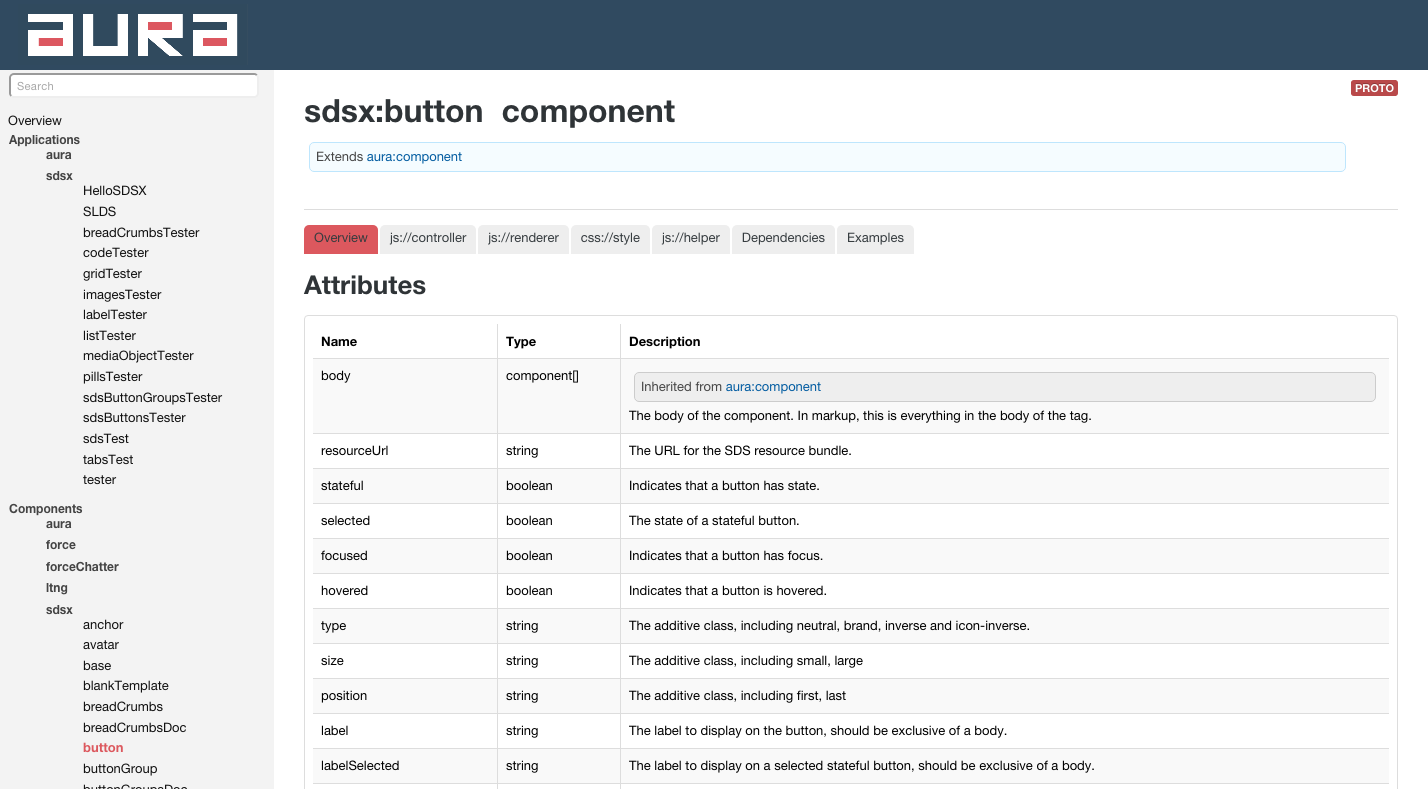
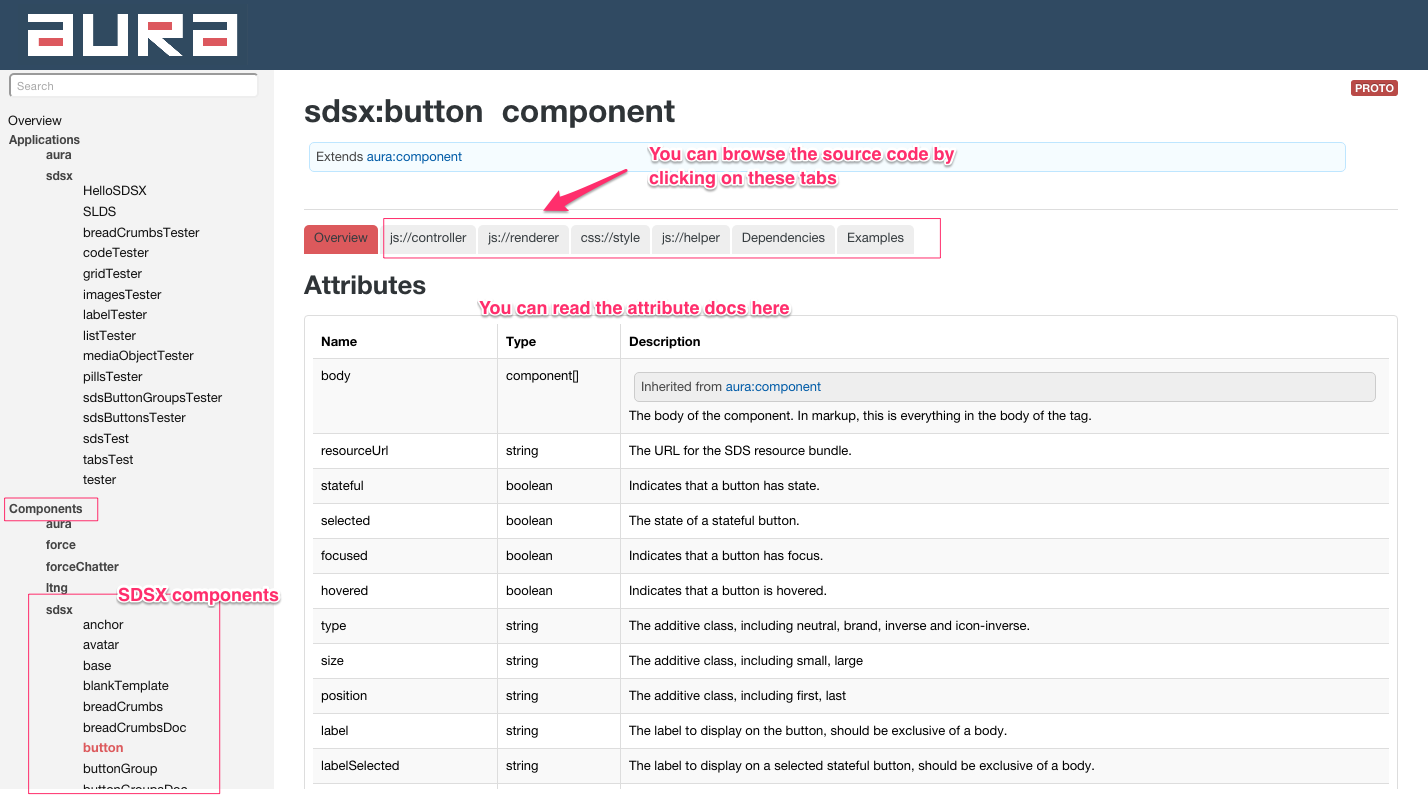
update readme

diff --git a/tutorial/tutorial.md b/tutorial/tutorial.md
@@ -31,7 +31,7 @@ SLDS app is a sample app that contains a list of all the SDSX components and sou
 
 <image src="https://raw.githubusercontent.com/ForceDotComLabs/sdsx/master/slds-app-small.png?token=AAmOoUKiDyKUoD3GGVHOFaCoqGVEKXu8ks5Vv6HUwA%3D%3D"/>
 
-#Step 3 - Check Out SDSX Documentation In AuraDocs
+#Step 3 - Check Out SDSX Documentation
 Lightning auto-generates documentation based on the source code. Since you installed the SDSX components package, you'll be able to browse the docs along with all other components! 
 1. Open `{yourOrg}/auradocs/reference.app`
 2. Click on `Components > SDSX` to see all the components in `SDSX` namespace. 
